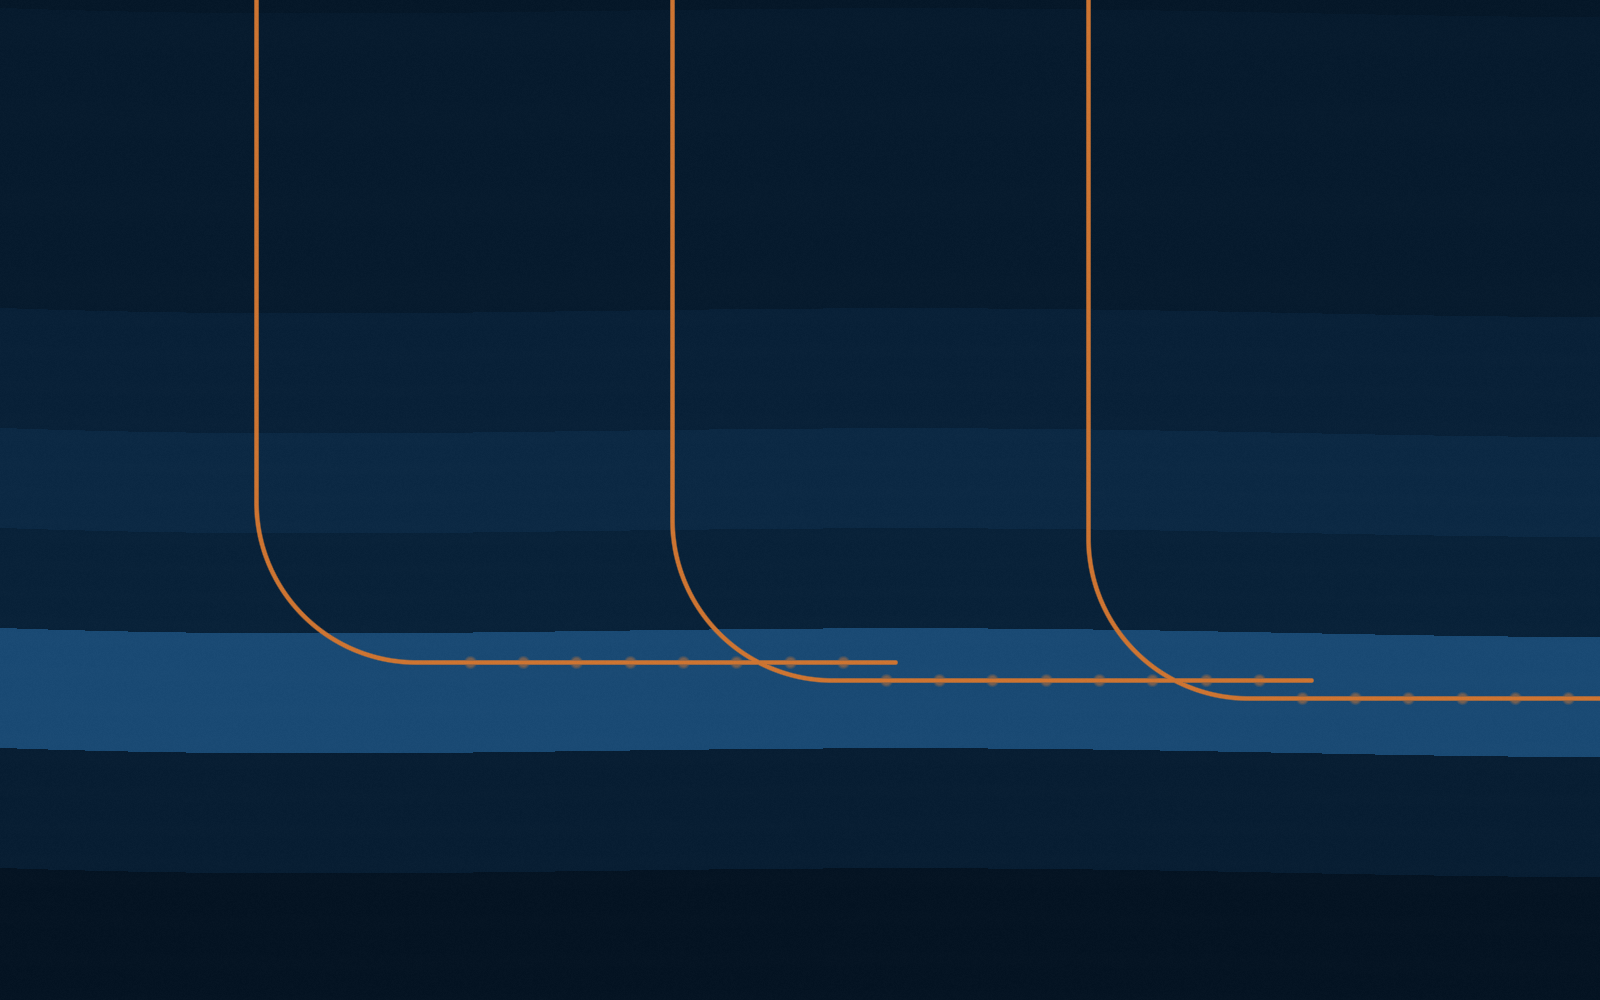
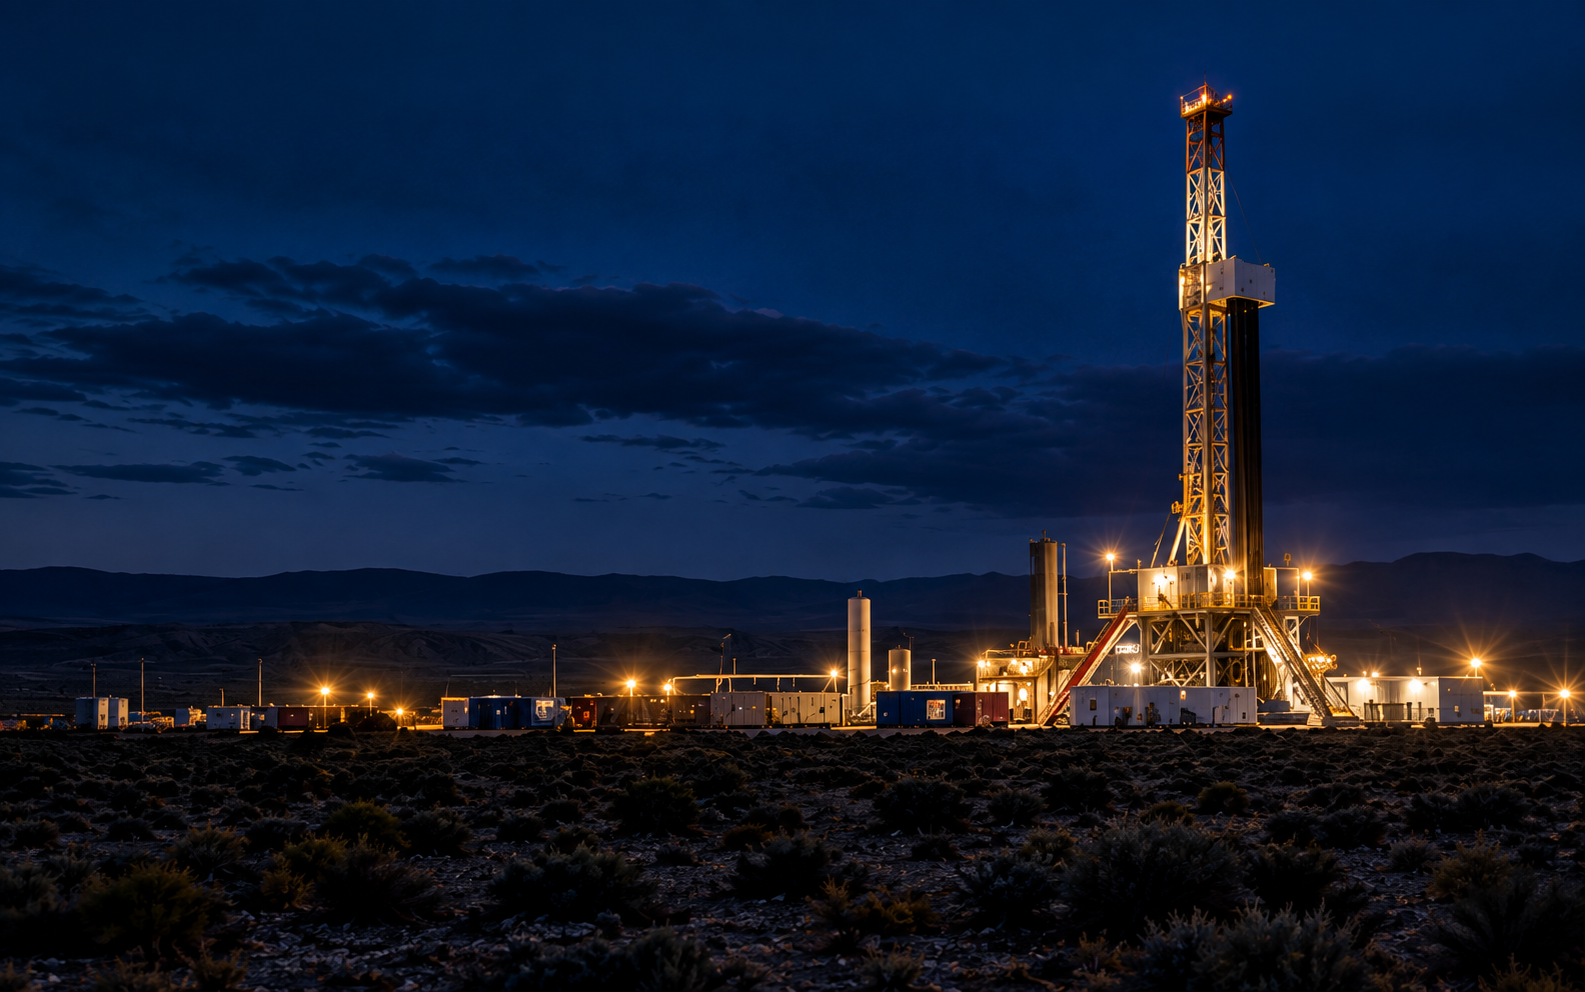
Fotografía definitiva y tres secciones nuevas con imagen
Reemplaza el arte procedural de los dos heroes por fotografía y suma
imagen a tres secciones que la pedían.

Heroes
- hero-cordillera y subsuelo-lateral pasan a fotografía real
- se reencuadra cada uno: la cadena montañosa vive al 46 % de altura y
  el equipo de perforación al 74 % del ancho, que es justo la zona que
  el velo deja ver y la que tiene que sobrevivir al recorte de mobile
- se afloja el extremo derecho del velo (0,42 → 0,26 y 0,50 → 0,30):
  estaba calibrado contra el arte procedural, que necesitaba más ayuda,
  y apagaba de más una foto que ahí no compite con ningún texto

Secciones nuevas con imagen
- digitalizacion: sala del Centro de Operaciones Integradas, banda 16:9.
  Era la pieza que más le habla al perfil técnico y hasta acá era solo
  texto en cuatro tarjetas
- operaciones: vista aérea de una locación, 16:9. "625 km²" no significa
  nada como cifra suelta
- quienes-somos: retrato vertical 4:5 junto al texto; los tres pilares
  pasan a banda debajo para que la foto tenga el alto que necesita

Ninguna va en la variante inversor: ahí el criterio es datos antes que
relato y una foto la empeora.

Otros
- scripts/generar-assets.py escribe en assets/marca/placeholders/ para
  no pisar la fotografía; queda como respaldo
- README documenta los cinco slots, sus medidas y cómo reemplazarlos
- CHANGELOG suma la entrada 4.4 bis con hipótesis y métrica

diff --git a/components/sections/QuienesSomos.tsx b/components/sections/QuienesSomos.tsx
@@ -1,8 +1,10 @@
+import Image from 'next/image';
 import Boton from '@/components/ui/Boton';
 import Encabezado from '@/components/ui/Encabezado';
 import Seccion from '@/components/ui/Seccion';
 import { quienesSomos } from '@/data/empresa';
 import estilos from './QuienesSomos.module.css';
+import campo from '@/assets/marca/quienes-somos.png';
 
 export const SECTION_ID = 'quienes-somos' as const;
 
@@ -26,18 +28,29 @@ export default function QuienesSomos() {
           </Boton>
         </div>
 
-        <ul className={estilos.pilares}>
-          {quienesSomos.pilares.map((pilar, i) => (
-            <li key={pilar.titulo} className={estilos.pilar}>
-              <span className={estilos.numero} aria-hidden="true">
-                {String(i + 1).padStart(2, '0')}
-              </span>
-              <h3 className={estilos.tituloPilar}>{pilar.titulo}</h3>
-              <p className={estilos.textoPilar}>{pilar.texto}</p>
-            </li>
-          ))}
-        </ul>
+        <figure className={estilos.figura}>
+          <Image
+            src={campo}
+            alt="Integrante del equipo de operaciones revisa datos en una tablet frente a una locación en actividad, al atardecer en la estepa neuquina."
+            sizes="(min-width: 1040px) 40vw, 100vw"
+            placeholder="blur"
+            quality={78}
+            className={estilos.imagen}
+          />
+        </figure>
       </div>
+
+      <ul className={estilos.pilares}>
+        {quienesSomos.pilares.map((pilar, i) => (
+          <li key={pilar.titulo} className={estilos.pilar}>
+            <span className={estilos.numero} aria-hidden="true">
+              {String(i + 1).padStart(2, '0')}
+            </span>
+            <h3 className={estilos.tituloPilar}>{pilar.titulo}</h3>
+            <p className={estilos.textoPilar}>{pilar.texto}</p>
+          </li>
+        ))}
+      </ul>
     </Seccion>
   );
 }

diff --git a/components/sections/Operaciones.tsx b/components/sections/Operaciones.tsx
@@ -1,7 +1,9 @@
+import Image from 'next/image';
 import Encabezado from '@/components/ui/Encabezado';
 import Seccion from '@/components/ui/Seccion';
 import { bloques, operaciones } from '@/data/operaciones';
 import estilos from './Operaciones.module.css';
+import locacion from '@/assets/marca/operaciones.png';
 
 export const SECTION_ID = 'operaciones' as const;
 
@@ -19,6 +21,22 @@ export default function Operaciones() {
         titulo={operaciones.titulo}
         bajada={operaciones.bajada}
       />
+
+      {/* "625 km²" no significa nada como número suelto: la vista aérea le
+          da la escala antes de que aparezca la tabla de bloques. */}
+      <figure className={estilos.figura}>
+        <Image
+          src={locacion}
+          alt="Vista aérea de una locación de Cordillera Energía en la estepa neuquina al atardecer: el pad de grava con el equipo de perforación, las instalaciones auxiliares y el camino de acceso, con la cordillera nevada en el horizonte."
+          sizes="(min-width: 1280px) 1216px, 100vw"
+          placeholder="blur"
+          quality={78}
+          className={estilos.imagen}
+        />
+        <figcaption className={estilos.epigrafe}>
+          Loma Chelforó · desarrollo pleno
+        </figcaption>
+      </figure>
 
       <dl className={estilos.resumen}>
         {operaciones.resumen.map((item) => (

diff --git a/components/sections/Digitalizacion.tsx b/components/sections/Digitalizacion.tsx
@@ -1,7 +1,9 @@
+import Image from 'next/image';
 import Encabezado from '@/components/ui/Encabezado';
 import Seccion from '@/components/ui/Seccion';
 import { digitalizacion } from '@/data/operaciones';
 import estilos from './Digitalizacion.module.css';
+import sala from '@/assets/marca/digitalizacion.png';
 
 export const SECTION_ID = 'digitalizacion' as const;
 
@@ -18,6 +20,22 @@ export default function Digitalizacion() {
         titulo={digitalizacion.titulo}
         bajada={digitalizacion.bajada}
       />
+
+      {/* El COI es la pieza que más le habla al perfil técnico y hasta acá
+          era solo texto. La foto le pone cara antes de enumerar el stack. */}
+      <figure className={estilos.figura}>
+        <Image
+          src={sala}
+          alt="Sala del Centro de Operaciones Integradas en Neuquén: pantallas con telemetría de pozos, un modelo de subsuelo y trayectorias de perforación, con el equipo de ingeniería de turno."
+          sizes="(min-width: 1280px) 1216px, 100vw"
+          placeholder="blur"
+          quality={78}
+          className={estilos.imagen}
+        />
+        <figcaption className={estilos.epigrafe}>
+          Centro de Operaciones Integradas · Neuquén
+        </figcaption>
+      </figure>
 
       <ul className={estilos.grilla}>
         {digitalizacion.capacidades.map((capacidad) => (

diff --git a/components/sections/QuienesSomos.module.css b/components/sections/QuienesSomos.module.css
@@ -13,9 +13,25 @@
   color: var(--txt-secundario);
 }
 
+.figura {
+  margin: 0;
+}
+
+.imagen {
+  width: 100%;
+  height: auto;
+  aspect-ratio: 4 / 5;
+  max-height: 70vh;
+  object-fit: cover;
+  border-radius: var(--r-lg);
+}
+
 .pilares {
   display: grid;
   gap: var(--e-6);
+  margin-top: var(--e-8);
+  padding-top: var(--e-7);
+  border-top: 1px solid var(--borde-sutil);
 }
 
 .pilar {
@@ -50,13 +66,11 @@
 
 @media (min-width: 1040px) {
   .cuerpo {
-    grid-template-columns: 1.05fr 1fr;
+    /* El texto lleva la medida de lectura; la foto vertical toma el resto. */
+    grid-template-columns: minmax(0, 1.25fr) minmax(280px, 0.75fr);
     gap: var(--e-10);
+    /* Centrar dejaba un hueco entre la bajada y el primer párrafo, porque la
+       foto vertical es más alta que la columna de texto. */
     align-items: start;
-  }
-
-  .pilares {
-    grid-template-columns: 1fr;
-    gap: var(--e-6);
   }
 }

diff --git a/components/sections/Hero.module.css b/components/sections/Hero.module.css
@@ -6,7 +6,9 @@
 
 .imagen {
   object-fit: cover;
-  object-position: center 62%;
+  /* La cadena vive entre el 35 % y el 50 % de la altura de la foto: con un
+     recorte más bajo se perdía y solo quedaba el matorral del primer plano. */
+  object-position: center 46%;
 }
 
 /* Velo: garantiza el contraste del texto sobre cualquier zona de la imagen */
@@ -17,8 +19,8 @@
     linear-gradient(
       to right,
       rgba(4, 18, 31, 0.94) 0%,
-      rgba(4, 18, 31, 0.82) 42%,
-      rgba(4, 18, 31, 0.42) 100%
+      rgba(4, 18, 31, 0.8) 42%,
+      rgba(4, 18, 31, 0.26) 100%
     ),
     linear-gradient(to top, rgba(4, 18, 31, 0.9) 0%, rgba(4, 18, 31, 0) 46%);
 }

diff --git a/components/sections/Operaciones.module.css b/components/sections/Operaciones.module.css
@@ -1,3 +1,26 @@
+.figura {
+  margin: 0 0 var(--e-8);
+}
+
+.imagen {
+  width: 100%;
+  height: auto;
+  /* La fuente ya es 16:9, así que no hay recorte: el pad, que es el sujeto,
+     entra entero. Un max-height acá le comería la locación. */
+  aspect-ratio: 16 / 9;
+  object-fit: cover;
+  border-radius: var(--r-lg);
+}
+
+.epigrafe {
+  margin-top: var(--e-3);
+  font-family: var(--f-mono);
+  font-size: var(--fs-xs);
+  letter-spacing: var(--ls-eyebrow);
+  text-transform: uppercase;
+  color: var(--txt-atenuado);
+}
+
 .resumen {
   display: grid;
   grid-template-columns: repeat(2, 1fr);

diff --git a/components/sections/HeroTech.module.css b/components/sections/HeroTech.module.css
@@ -6,7 +6,9 @@
 
 .imagen {
   object-fit: cover;
-  object-position: 30% center;
+  /* El equipo de perforación está en el tercio derecho, que es justo la zona
+     donde el velo deja ver la foto. En mobile el recorte tiene que seguirlo. */
+  object-position: 74% 58%;
 }
 
 .velo {
@@ -16,8 +18,8 @@
     linear-gradient(
       to right,
       rgba(4, 18, 31, 0.95) 0%,
-      rgba(4, 18, 31, 0.86) 48%,
-      rgba(4, 18, 31, 0.5) 100%
+      rgba(4, 18, 31, 0.84) 48%,
+      rgba(4, 18, 31, 0.3) 100%
     ),
     linear-gradient(to top, rgba(4, 18, 31, 0.92) 0%, rgba(4, 18, 31, 0) 52%);
 }

diff --git a/components/sections/Digitalizacion.module.css b/components/sections/Digitalizacion.module.css
@@ -1,3 +1,25 @@
+.figura {
+  margin: 0 0 var(--e-7);
+}
+
+.imagen {
+  width: 100%;
+  height: auto;
+  aspect-ratio: 16 / 9;
+  object-fit: cover;
+  border-radius: var(--r-lg);
+  border: 1px solid var(--borde-inv);
+}
+
+.epigrafe {
+  margin-top: var(--e-3);
+  font-family: var(--f-mono);
+  font-size: var(--fs-xs);
+  letter-spacing: var(--ls-eyebrow);
+  text-transform: uppercase;
+  color: var(--txt-inv-atenuado);
+}
+
 .grilla {
   display: grid;
   grid-template-columns: 1fr;

diff --git a/scripts/generar-assets.py b/scripts/generar-assets.py
@@ -1,6 +1,9 @@
 #!/usr/bin/env python3
 """
-Genera las piezas de arte de marca como PNG reales, sin dependencias externas.
+Genera arte de marca procedural como PNG reales, sin dependencias externas.
+
+NOTA: desde que hay fotografia definitiva en assets/marca/, este script es solo
+el respaldo. Escribe en assets/marca/placeholders/ para no pisar las fotos.
 
 Son composiciones procedurales en la paleta de Cordillera Energia (azul
 cordillera + acento cobre). Estan pensadas como sustituto honesto de la
@@ -16,7 +19,7 @@ import os
 import struct
 import zlib
 
-SALIDA = os.path.join(os.path.dirname(__file__), "..", "assets", "marca")
+SALIDA = os.path.join(os.path.dirname(__file__), "..", "assets", "marca", "placeholders")
 
 
 def escribir_png(ruta, ancho, alto, filas):

diff --git a/CHANGELOG.md b/CHANGELOG.md
@@ -232,9 +232,20 @@ La variante tech **no incluye** `quienes-somos`, `indicadores-clave`, `resultado
 | | |
 |---|---|
 | **Problema** | ISS-10 (14 JPG, media 1,9 MB, sin dimensiones, sin lazy, sin formatos modernos) e ISS-03 (LCP móvil p75 = 4,8 s, CLS = 0,31). |
-| **Cambio** | Una imagen por hero, con `next/image`, `priority`, `sizes`, `placeholder="blur"` y dimensiones derivadas del import estático. AVIF/WebP y `deviceSizes` ajustados a los breakpoints reales del sitio. Las piezas de arte se generan proceduralmente (`npm run assets`) en la paleta de marca; se reemplazan por fotografía definitiva sin tocar ningún componente. |
+| **Cambio** | Cinco imágenes en todo el sitio, con `next/image`, `sizes`, `placeholder="blur"` y dimensiones derivadas del import estático; `priority` solo en los dos heroes, lazy el resto. AVIF/WebP y `deviceSizes` ajustados a los breakpoints reales. El velo de cada hero y su `object-position` están calibrados para que el sujeto sobreviva tanto al recorte ancho de escritorio como al recorte angosto de mobile. |
 | **Hipótesis** | El LCP del hero es la mitad del problema de rebote temprano del perfil inversor. |
 | **Métrica** | LCP móvil p75 < 2,0 s y CLS < 0,05 en CrUX. |
+
+### 4.4 bis · Fotografía por sección
+
+**Secciones:** `quienes-somos`, `operaciones`, `digitalizacion` · **Archivos:** los tres componentes y sus CSS Modules
+
+| | |
+|---|---|
+| **Problema** | Fuera de los dos heroes, el sitio era íntegramente tipografía y datos. Tres secciones lo pedían por motivos distintos: `digitalizacion` describía el Centro de Operaciones Integradas —el activo que más le interesa al perfil técnico— con cuatro tarjetas de puro texto; `operaciones` enunciaba "625 km²" sin que el número signifique nada; `quienes-somos` era la única sección institucional sin ningún respiro visual. |
+| **Cambio** | Una imagen por sección, con epígrafe donde aporta: la sala del COI (16:9, banda a lo ancho), la vista aérea de una locación (16:9) y un retrato vertical de operación en campo (4:5, al lado del texto, con los tres pilares reordenados como banda debajo). **Ninguna va en la variante inversor**: ahí el criterio es datos antes que relato y una foto la empeora. |
+| **Hipótesis** | La foto del COI es lo que convierte la sección de tecnología de folleto en prueba; la aérea le da escala a una cifra que sola no se entiende. |
+| **Métrica** | `seccion_vista` de `emisiones` sobre `seccion_vista` de `digitalizacion` (si la foto retiene, sube el pasaje a la sección siguiente) y profundidad de scroll mediana en la variante tech. Contra-métrica: si el LCP de `/` empeora, la foto de `quienes-somos` está cargando antes de tiempo. |
 
 ### 4.5 · Gráficos propios
 

diff --git a/README.md b/README.md
@@ -119,16 +119,45 @@ claro y en oscuro.
 
 ## Assets y documentos
 
-Las piezas de arte y los PDF de ejemplo se generan con scripts, sin dependencias:
+### Fotografía
+
+Las cinco piezas viven en `assets/marca/` (fuera de `/public`, para que entren por
+import estático y `next/image` saque de ahí las dimensiones y el blur):
+
+| Archivo | Dónde se usa | Formato | Carga |
+|---|---|---|---|
+| `hero-cordillera.png` | `/` → `hero` | 1586 × 992 | `priority`, es el LCP |
+| `subsuelo-lateral.png` | `/variantes/tech` → `hero-tech` | 1585 × 992 | `priority`, es el LCP |
+| `digitalizacion.png` | `digitalizacion` | 1672 × 941 (16:9) | lazy |
+| `operaciones.png` | `operaciones` | 1672 × 940 (16:9) | lazy |
+| `quienes-somos.png` | `quienes-somos` | 1122 × 1402 (4:5) | lazy |
+
+**Reemplazarlas es dejar caer el archivo con el mismo nombre.** No hay que tocar
+código: las dimensiones salen del import.
+
+Dos cosas a tener en cuenta si se cambian:
+
+- Los dos heroes llevan un velo oscuro que tapa el tercio izquierdo (donde va el
+  texto) y deja ver el derecho. El sujeto tiene que estar en ese lado, y el
+  `object-position` de cada hero está calibrado para que el recorte de mobile lo
+  siga. Está comentado en cada `.module.css`.
+- `hero-cordillera.png` mide 1586 px de ancho y el `deviceSize` más grande es 1920:
+  en pantallas muy anchas se escala un poco. Si molesta, regenerar a 1920.
+
+### Respaldo procedural
+
+`npm run assets` genera arte de marca procedural en `assets/marca/placeholders/`
+(escribe ahí y no en `assets/marca/` justo para no pisar la fotografía). Sirve si
+hace falta una pieza de relleno mientras se consigue la definitiva.
+
+### Documentos
 
 ```bash
-npm run assets                     # assets/marca/*.png (arte de marca procedural)
-python3 scripts/generar-docs.py    # public/docs/*.pdf (documentos de ejemplo)
+python3 scripts/generar-docs.py    # public/docs/*.pdf
 ```
 
-Existen para que la demo se recorra sin 404. Cuando lleguen la fotografía y los
-documentos definitivos, se reemplazan los archivos: las rutas y las dimensiones están
-declaradas en `/data` y en los componentes, así que no hay que tocar nada más.
+PDF de ejemplo válidos, para que la demo se recorra sin 404. Se reemplazan por los
+definitivos manteniendo el nombre; las rutas están en `data/inversores.ts`.
 
 ---
 
